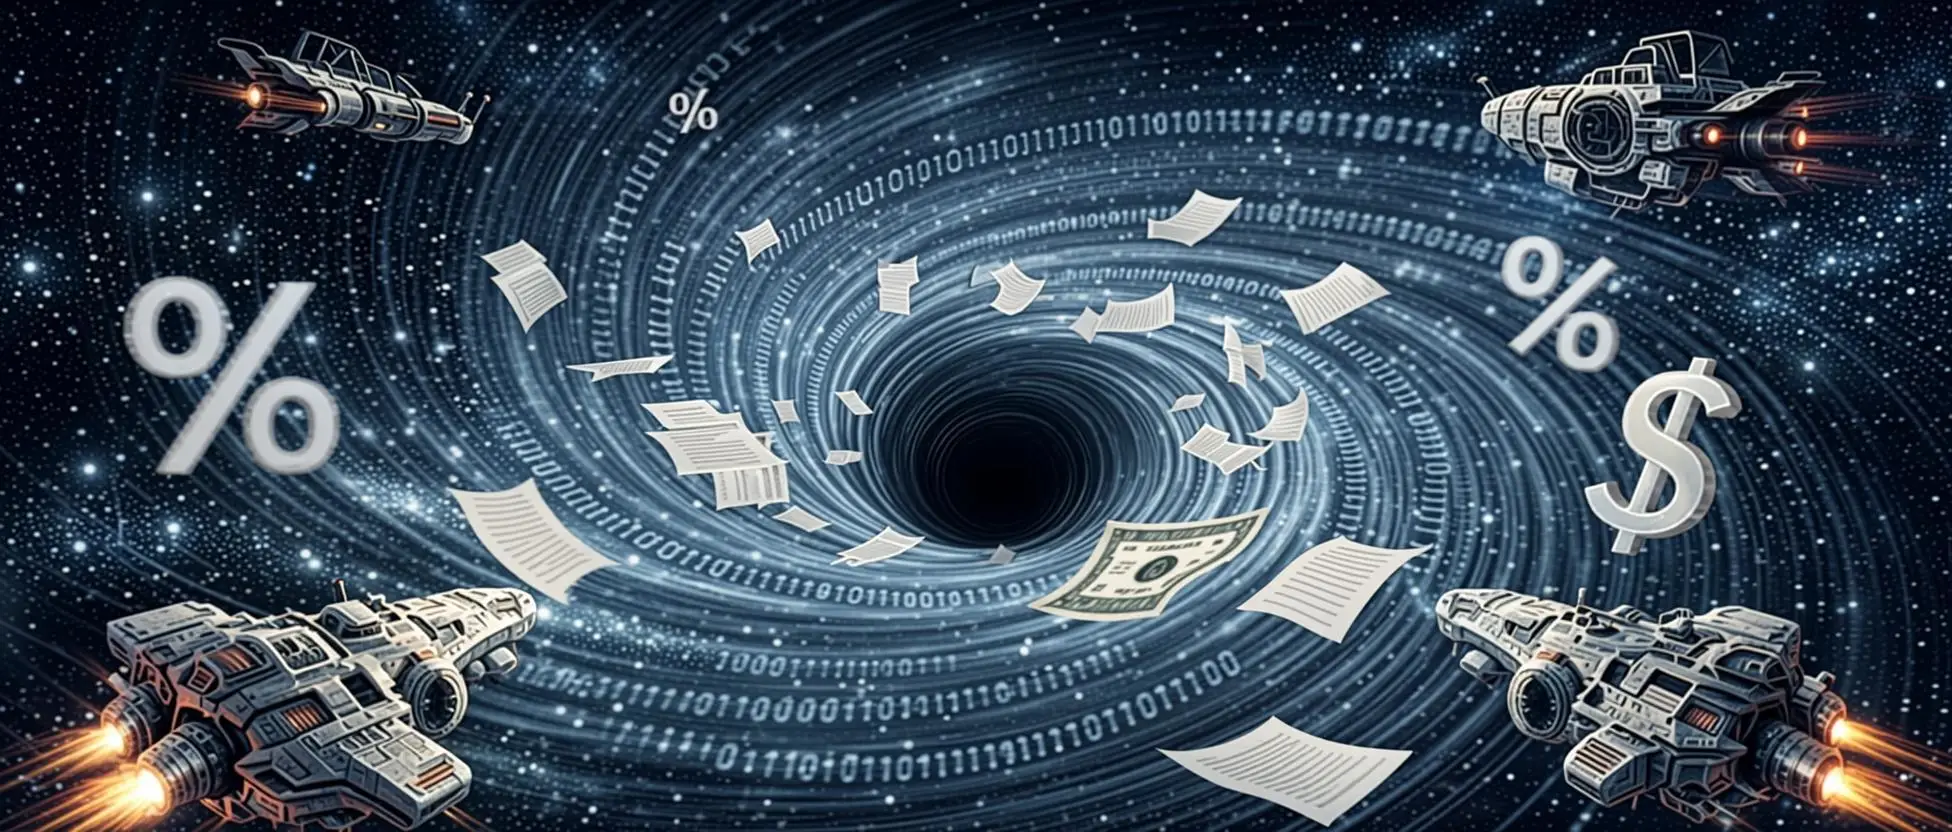
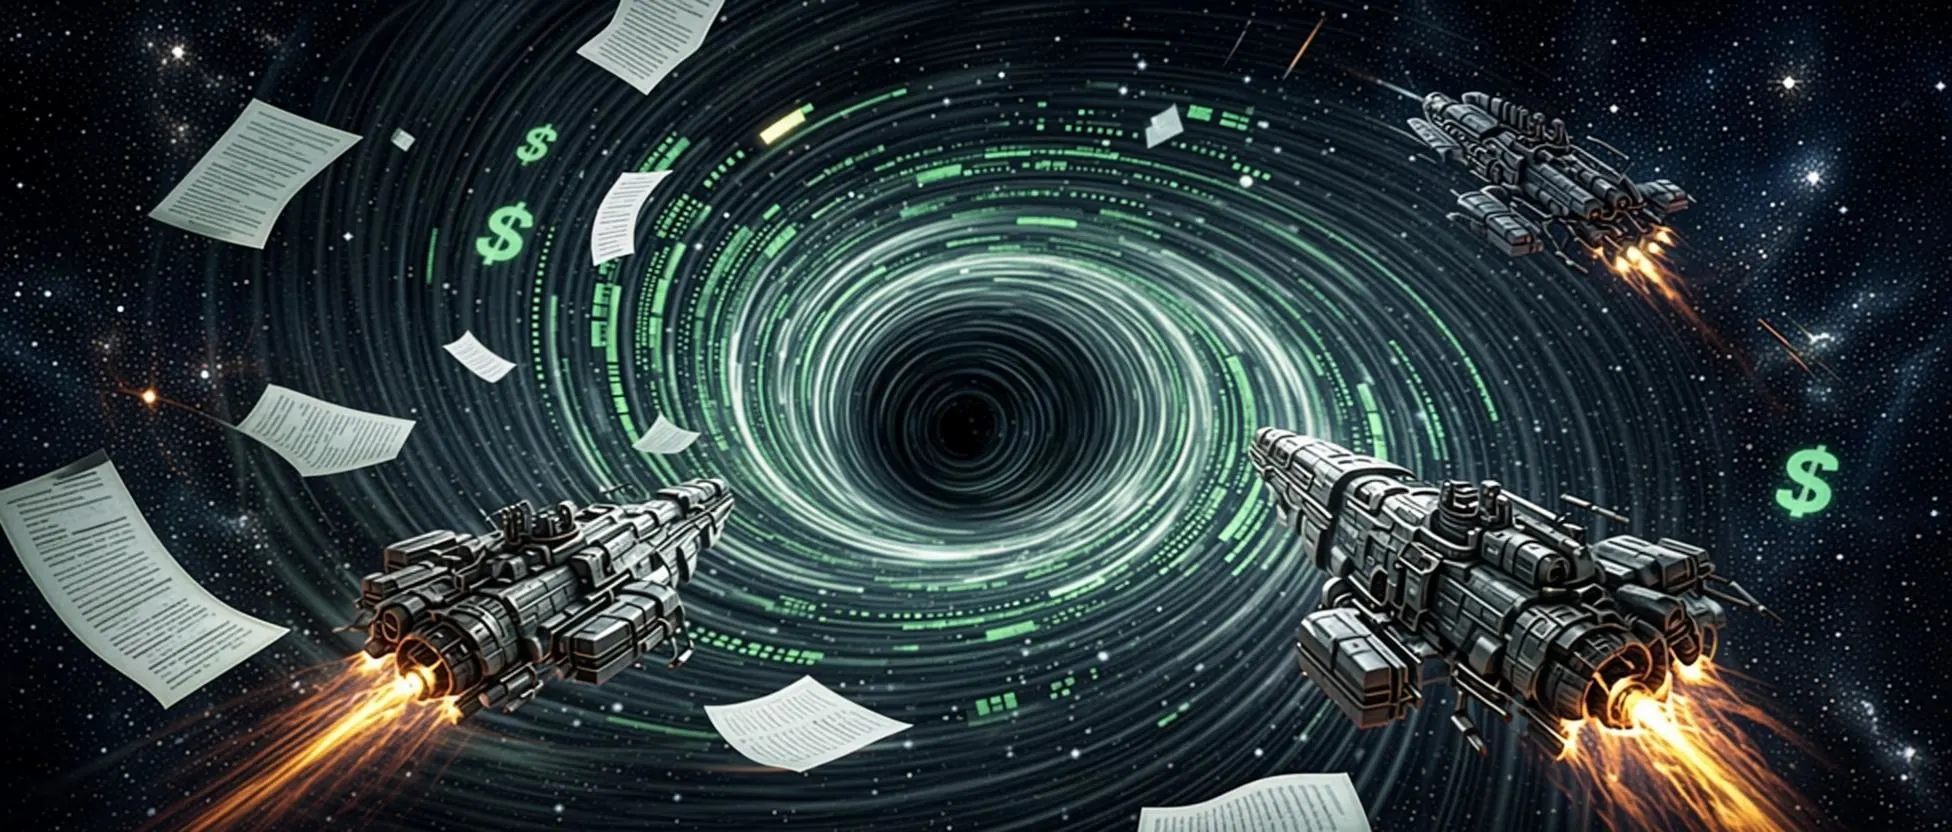
button fuel and repair and lelev fix

diff --git a/frontend/src/pages/Inventory.tsx b/frontend/src/pages/Inventory.tsx
@@ -5,6 +5,7 @@ import { fadeIn, scaleIn, staggerContainer } from '../lib/animations'
 import { hapticImpact } from '../lib/telegram'
 import { statIcons, statLabels, formatBonus } from '../lib/stats'
 import { useGameStore } from '../store/game'
+import { isFuel, isRepairKit } from '../lib/items'
 import type { InventoryItem } from '../types'
 
 const rarityConfig: Record<string, { border: string; bg: string; text: string; glow: string }> = {
@@ -65,12 +66,15 @@ type ItemInfo = {
 
 function buildInfo(item: InventoryItem): ItemInfo {
   const ref = item.item
+  let resourceType: string | undefined
+  if (isFuel(ref)) resourceType = 'fuel'
+  else if (isRepairKit(ref)) resourceType = 'repair_kit'
   return {
     name: ref.name || ref.id,
     tier: parseTier(ref.id),
     rarity: ref.rarity || 'common',
     icon_path: ref.image_url || '',
-    resource_type: ref.type === 'resource' ? 'fuel' : undefined,
+    resource_type: resourceType,
     description_key: ref.description || undefined,
   }
 }
@@ -85,9 +89,9 @@ function buildSections(
   const consumables: InventoryItem[] = []
 
   for (const i of items) {
-    if (i.item.type === 'resource' && i.item.id.startsWith('fuel')) {
+    if (isFuel(i.item)) {
       fuel.push(i)
-    } else if (i.item.type === 'resource' && i.item.id.startsWith('repair')) {
+    } else if (isRepairKit(i.item)) {
       repair.push(i)
     } else if (i.item.type === 'artifact') {
       artifacts.push(i)
@@ -148,18 +152,16 @@ export function Inventory() {
   const totalItems = inventory.reduce((s, i) => s + i.quantity, 0)
   const totalUnique = inventory.length
 
-  const usableItems = useMemo(() => {
+  const usableItemIds = useMemo(() => {
     const usable = new Set<string>()
-    for (const ship of ships) {
-      if (ship.tea_level < 100) {
-        usable.add('fuel')
-      }
-      if (ship.optimism < 100) {
-        usable.add('repair_kit')
-      }
+    const needsFuel = ships.some((s) => s.tea_level < 100)
+    const needsRepair = ships.some((s) => s.optimism < 100)
+    for (const inv of inventory) {
+      if (needsFuel && isFuel(inv.item)) usable.add(inv.item.id)
+      if (needsRepair && isRepairKit(inv.item)) usable.add(inv.item.id)
     }
     return usable
-  }, [ships])
+  }, [ships, inventory])
 
   const handleItemTap = useCallback((item: InventoryItem, info: ItemInfo) => {
     setSelectedItem({ item, info })
@@ -234,7 +236,7 @@ export function Inventory() {
                     key={item.item.id}
                     item={item}
                     info={info}
-                    isUsable={usableItems.has(item.item.id)}
+                    isUsable={usableItemIds.has(item.item.id)}
                     onTap={handleItemTap}
                   />
                 ))}
@@ -407,20 +409,18 @@ function ItemDetailSheet({
   const rc = rarityConfig[info.rarity] || rarityConfig.common
   const hasIcon = info.icon_path
 
-  const isFuel = item.item.id.startsWith('fuel')
-  const isRepairKit = item.item.id.startsWith('repair')
-  const isUsableType = isFuel || isRepairKit
+  const isFuelItem = isFuel(item.item)
+  const isRepairKitItem = isRepairKit(item.item)
+  const isUsableType = isFuelItem || isRepairKitItem
 
   const matchingShips = useMemo(() => {
     if (!isUsableType) return []
     return ships.filter((s) => {
-      if (isFuel) {
-        if (s.tea_level >= 100) return false
-      }
-      if (isRepairKit && s.optimism >= 100) return false
+      if (isFuelItem && s.tea_level >= 100) return false
+      if (isRepairKitItem && s.optimism >= 100) return false
       return true
     })
-  }, [ships, isUsableType, isFuel, isRepairKit])
+  }, [ships, isUsableType, isFuelItem, isRepairKitItem])
 
   const handleUse = useCallback(async () => {
     if (!matchingShips.length) return
@@ -428,16 +428,16 @@ function ItemDetailSheet({
 
     const ship = matchingShips[0]
     try {
-      if (isFuel) {
+      if (isFuelItem) {
         await refuelShip(ship.id, item.item.id)
-      } else if (isRepairKit) {
+      } else if (isRepairKitItem) {
         await repairShip(ship.id, item.item.id)
       }
       await Promise.all([loadInventory(), loadShips()])
     } catch {
       // error handled by store
     }
-  }, [matchingShips, isFuel, isRepairKit, refuelShip, repairShip, item.item.id, loadInventory, loadShips])
+  }, [matchingShips, isFuelItem, isRepairKitItem, refuelShip, repairShip, item.item.id, loadInventory, loadShips])
 
   let icon: React.ReactNode
   if (hasIcon) {
@@ -560,7 +560,7 @@ function ItemDetailSheet({
               {matchingShips.length > 0 ? (
                 <div className="space-y-2">
                   {matchingShips.slice(0, 3).map((ship) => {
-                    const need = isFuel
+                    const need = isFuelItem
                       ? `⛽ ${ship.tea_level}/100`
                       : `🛡️ ${ship.optimism}%`
                     return (
@@ -573,7 +573,7 @@ function ItemDetailSheet({
                           onClick={handleUse}
                           className="text-[10px] px-3 py-1.5 rounded-lg bg-neon-green/15 text-neon-green border border-neon-green/20 hover:bg-neon-green/25 transition"
                         >
-                          {isFuel ? '⛽ Заправить' : '🔧 Починить'}
+                          {isFuelItem ? '⛽ Заправить' : '🔧 Починить'}
                         </button>
                       </div>
                     )

diff --git a/frontend/src/lib/__tests__/items.test.ts b/frontend/src/lib/__tests__/items.test.ts
@@ -1,0 +1,50 @@
+import { describe, it, expect } from 'vitest'
+import { isFuel, isRepairKit, countFuel } from '../items'
+import type { InventoryItem } from '../../types'
+
+function makeItem(id: string, type: string, effect: Record<string, unknown>): InventoryItem {
+  return {
+    item: { id, name: '', description: '', type, rarity: 'common', effect, is_tradable: false, sell_price: 0 },
+    quantity: 1,
+  }
+}
+
+describe('isFuel', () => {
+  it('returns true for consumable with restore_tea', () => {
+    expect(isFuel(makeItem('f1', 'consumable', { restore_tea: 50 }).item)).toBe(true)
+  })
+  it('returns false for artifact', () => {
+    expect(isFuel(makeItem('a1', 'artifact', { bonus_speed: 0.1 }).item)).toBe(false)
+  })
+  it('returns false for consumable without restore_tea', () => {
+    expect(isFuel(makeItem('r1', 'consumable', { restore_optimism: 30 }).item)).toBe(false)
+  })
+  it('returns false for restore_tea = 0', () => {
+    expect(isFuel(makeItem('f0', 'consumable', { restore_tea: 0 }).item)).toBe(false)
+  })
+})
+
+describe('isRepairKit', () => {
+  it('returns true for consumable with restore_optimism', () => {
+    expect(isRepairKit(makeItem('r1', 'consumable', { restore_optimism: 30 }).item)).toBe(true)
+  })
+  it('returns false for fuel', () => {
+    expect(isRepairKit(makeItem('f1', 'consumable', { restore_tea: 50 }).item)).toBe(false)
+  })
+})
+
+describe('countFuel', () => {
+  it('sums quantities of fuel items', () => {
+    const inv = [
+      makeItem('f1', 'consumable', { restore_tea: 20 }),
+      makeItem('f2', 'consumable', { restore_tea: 50 }),
+      makeItem('r1', 'consumable', { restore_optimism: 30 }),
+    ]
+    inv[0].quantity = 3
+    inv[1].quantity = 2
+    expect(countFuel(inv)).toBe(5)
+  })
+  it('returns 0 for empty inventory', () => {
+    expect(countFuel([])).toBe(0)
+  })
+})

diff --git a/frontend/src/lib/__tests__/xp.test.ts b/frontend/src/lib/__tests__/xp.test.ts
@@ -1,0 +1,26 @@
+import { describe, it, expect } from 'vitest'
+import { calculateLevel, getXpProgress, getXpToNextLevel } from '../xp'
+
+describe('calculateLevel', () => {
+  it('level 1 for 0 xp', () => expect(calculateLevel(0)).toBe(1))
+  it('level 1 for 999 xp', () => expect(calculateLevel(999)).toBe(1))
+  it('level 2 for 1000 xp', () => expect(calculateLevel(1000)).toBe(2))
+  it('level 2 for 1999 xp', () => expect(calculateLevel(1999)).toBe(2))
+  it('level 3 for 2000 xp', () => expect(calculateLevel(2000)).toBe(3))
+  it('level 1 for negative xp', () => expect(calculateLevel(-100)).toBe(1))
+})
+
+describe('getXpProgress', () => {
+  it('0% at start of level', () => expect(getXpProgress(0, 1)).toBe(0))
+  it('50% at mid level', () => expect(getXpProgress(500, 1)).toBe(50))
+  it('100% at end of level', () => expect(getXpProgress(999, 1)).toBe(100))
+  it('0% at start of level 2', () => expect(getXpProgress(1000, 2)).toBe(0))
+  it('50% at mid level 2', () => expect(getXpProgress(1500, 2)).toBe(50))
+})
+
+describe('getXpToNextLevel', () => {
+  it('1000 to next for level 1 with 0 xp', () => expect(getXpToNextLevel(0, 1)).toBe(1000))
+  it('500 to next for level 1 with 500 xp', () => expect(getXpToNextLevel(500, 1)).toBe(500))
+  it('0 to next for level 1 with 1000 xp', () => expect(getXpToNextLevel(1000, 1)).toBe(0))
+  it('1000 to next for level 2 with 1000 xp', () => expect(getXpToNextLevel(1000, 2)).toBe(1000))
+})

diff --git a/frontend/src/lib/items.ts b/frontend/src/lib/items.ts
@@ -1,0 +1,21 @@
+import type { InventoryItem } from '../types'
+
+export function isFuel(item: InventoryItem['item']): boolean {
+  if (item.type !== 'consumable') return false
+  const effect = item.effect as Record<string, unknown>
+  return typeof effect?.restore_tea === 'number' && (effect.restore_tea as number) > 0
+}
+
+export function isRepairKit(item: InventoryItem['item']): boolean {
+  if (item.type !== 'consumable') return false
+  const effect = item.effect as Record<string, unknown>
+  return typeof effect?.restore_optimism === 'number' && (effect.restore_optimism as number) > 0
+}
+
+export function countFuel(inventory: InventoryItem[]): number {
+  return inventory.filter((i) => isFuel(i.item)).reduce((sum, i) => sum + i.quantity, 0)
+}
+
+export function countRepairKits(inventory: InventoryItem[]): number {
+  return inventory.filter((i) => isRepairKit(i.item)).reduce((sum, i) => sum + i.quantity, 0)
+}

diff --git a/frontend/src/lib/xp.ts b/frontend/src/lib/xp.ts
@@ -1,8 +1,21 @@
+const XP_PER_LEVEL = 1000
+
+export function calculateLevel(xp: number): number {
+  if (xp < 0) return 1
+  return 1 + Math.floor(xp / XP_PER_LEVEL)
+}
+
 export function getNextLevelXp(level: number): number {
-  return level * 100
+  return level * XP_PER_LEVEL
 }
 
 export function getXpProgress(xp: number, level: number): number {
-  const next = getNextLevelXp(level)
-  return Math.min(100, Math.round((xp / next) * 100))
+  const xpForCurrentLevel = (level - 1) * XP_PER_LEVEL
+  const xpInLevel = xp - xpForCurrentLevel
+  return Math.min(100, Math.max(0, Math.round((xpInLevel / XP_PER_LEVEL) * 100)))
+}
+
+export function getXpToNextLevel(xp: number, level: number): number {
+  const nextLevelXp = getNextLevelXp(level)
+  return Math.max(0, nextLevelXp - xp)
 }

diff --git a/frontend/src/pages/ShipPage.tsx b/frontend/src/pages/ShipPage.tsx
@@ -5,9 +5,10 @@ import { useGameStore } from '../store/game'
 import { HexSlot } from '../components/HexSlot'
 import SlotSelectModal from '../components/SlotSelectModal'
 import { useExpeditionTimer } from '../hooks/useTimer'
-import { getXpProgress } from '../lib/xp'
+import { getXpProgress, calculateLevel } from '../lib/xp'
 import { getMaxArtifactSlots, getNextSlotUnlock } from '../lib/progression'
 import { getAvatarUrl, getFirstName } from '../lib/telegram'
+import { countFuel, countRepairKits } from '../lib/items'
 import type { Artifact } from '../types'
 import { api } from '../api/client'
 
@@ -87,8 +88,8 @@ export default function ShipPage() {
 
   useEffect(() => { loadShips(); loadInventory(); loadActiveExpeditions() }, [])
 
-  const level = user?.level ?? 1
   const xp = user?.xp ?? 0
+  const level = calculateLevel(xp)
   const xpPct = getXpProgress(xp, level)
   const navigate = useNavigate()
 
@@ -237,12 +238,8 @@ export default function ShipPage() {
   }, [mainShip?.equipment?.artifacts, artifactsContent])
 
   /* ── Inventory counts ── */
-  const fuelInInventory = inventory
-    .filter((i) => i.item.type === 'resource' || i.item.id.startsWith('fuel'))
-    .reduce((sum, i) => sum + i.quantity, 0)
-  const repairInInventory = inventory
-    .filter((i) => i.item.id.startsWith('repair'))
-    .reduce((sum, i) => sum + i.quantity, 0)
+  const fuelInInventory = useMemo(() => countFuel(inventory), [inventory])
+  const repairInInventory = useMemo(() => countRepairKits(inventory), [inventory])
 
   const isShipIdle = !!mainShip
 

diff --git a/frontend/src/pages/Profile.tsx b/frontend/src/pages/Profile.tsx
@@ -9,7 +9,7 @@ import {
 
 import { fadeIn, staggerContainer } from '../lib/animations'
 import { useCountUp } from '../hooks/useCountUp'
-import { getNextLevelXp, getXpProgress } from '../lib/xp'
+import { calculateLevel, getNextLevelXp, getXpProgress, getXpToNextLevel } from '../lib/xp'
 import {
   getMaxArtifactSlots,
   getNextSlotUnlock,
@@ -106,10 +106,11 @@ export function Profile() {
   const avatarUrl = getAvatarUrl()
   const first = getFirstName()
 
-  const level = user?.level ?? 1
   const xp = user?.xp ?? 0
+  const level = calculateLevel(xp)
   const nextLevelXp = getNextLevelXp(level)
   const xpPercent = getXpProgress(xp, level)
+  const xpToNext = getXpToNextLevel(xp, level)
   const tier = getTierForLevel(level)
   const rank = findRank(level, ranksContent)
   const maxSlots = getMaxArtifactSlots(level)
@@ -404,7 +405,7 @@ export function Profile() {
         </div>
 
         <p className="text-[10px] text-slate-600 mt-2">
-          До уровня {level + 1}: ещё <span className="text-slate-400 font-mono">{(nextLevelXp - xp > 0 ? nextLevelXp - xp : 0)}</span> XP
+          До уровня {level + 1}: ещё <span className="text-slate-400 font-mono">{xpToNext}</span> XP
         </p>
       </motion.div>
 

diff --git a/frontend/src/components/HudBar.tsx b/frontend/src/components/HudBar.tsx
@@ -3,7 +3,7 @@ import { motion } from 'motion/react'
 import { useNavigate } from 'react-router-dom'
 
 import { useCountUp } from '../hooks/useCountUp'
-import { getXpProgress } from '../lib/xp'
+import { getXpProgress, calculateLevel } from '../lib/xp'
 import { getTierForLevel, findRank } from '../lib/ranks'
 import { getAvatarUrl, getFirstName } from '../lib/telegram'
 import { useGameStore } from '../store/game'
@@ -18,8 +18,8 @@ export function HudBar() {
   const avatarUrl = getAvatarUrl()
   const first = getFirstName()
 
-  const level = user?.level ?? 1
   const xp = user?.xp ?? 0
+  const level = calculateLevel(xp)
   const xpPct = getXpProgress(xp, level)
   const tier = getTierForLevel(level)
   const rank = findRank(level, ranksContent)

diff --git a/tests/test_domain/test_level_progression.py b/tests/test_domain/test_level_progression.py
@@ -14,10 +14,10 @@ class TestCalculateLevel:
 
     def test_level_boundaries(self):
         assert LevelProgressionService.calculate_level(999) == 1
-        assert LevelProgressionService.calculate_level(1000) == 1
-        assert LevelProgressionService.calculate_level(1999) == 1
-        assert LevelProgressionService.calculate_level(2000) == 2
-        assert LevelProgressionService.calculate_level(25000) == 25
+        assert LevelProgressionService.calculate_level(1000) == 2
+        assert LevelProgressionService.calculate_level(1999) == 2
+        assert LevelProgressionService.calculate_level(2000) == 3
+        assert LevelProgressionService.calculate_level(25000) == 26
 
 
 class TestCalculateExpeditionXp:

diff --git a/src/app/domain/services/level_progression.py b/src/app/domain/services/level_progression.py
@@ -49,7 +49,7 @@ class LevelProgressionService:
         """Вычисляет текущий уровень игрока по его XP."""
         if xp < 0:
             return 1
-        return max(1, xp // XP_PER_LEVEL)
+        return 1 + xp // XP_PER_LEVEL
 
     @staticmethod
     def calculate_expedition_xp(duration_seconds: int, optimism_risk: float) -> int: